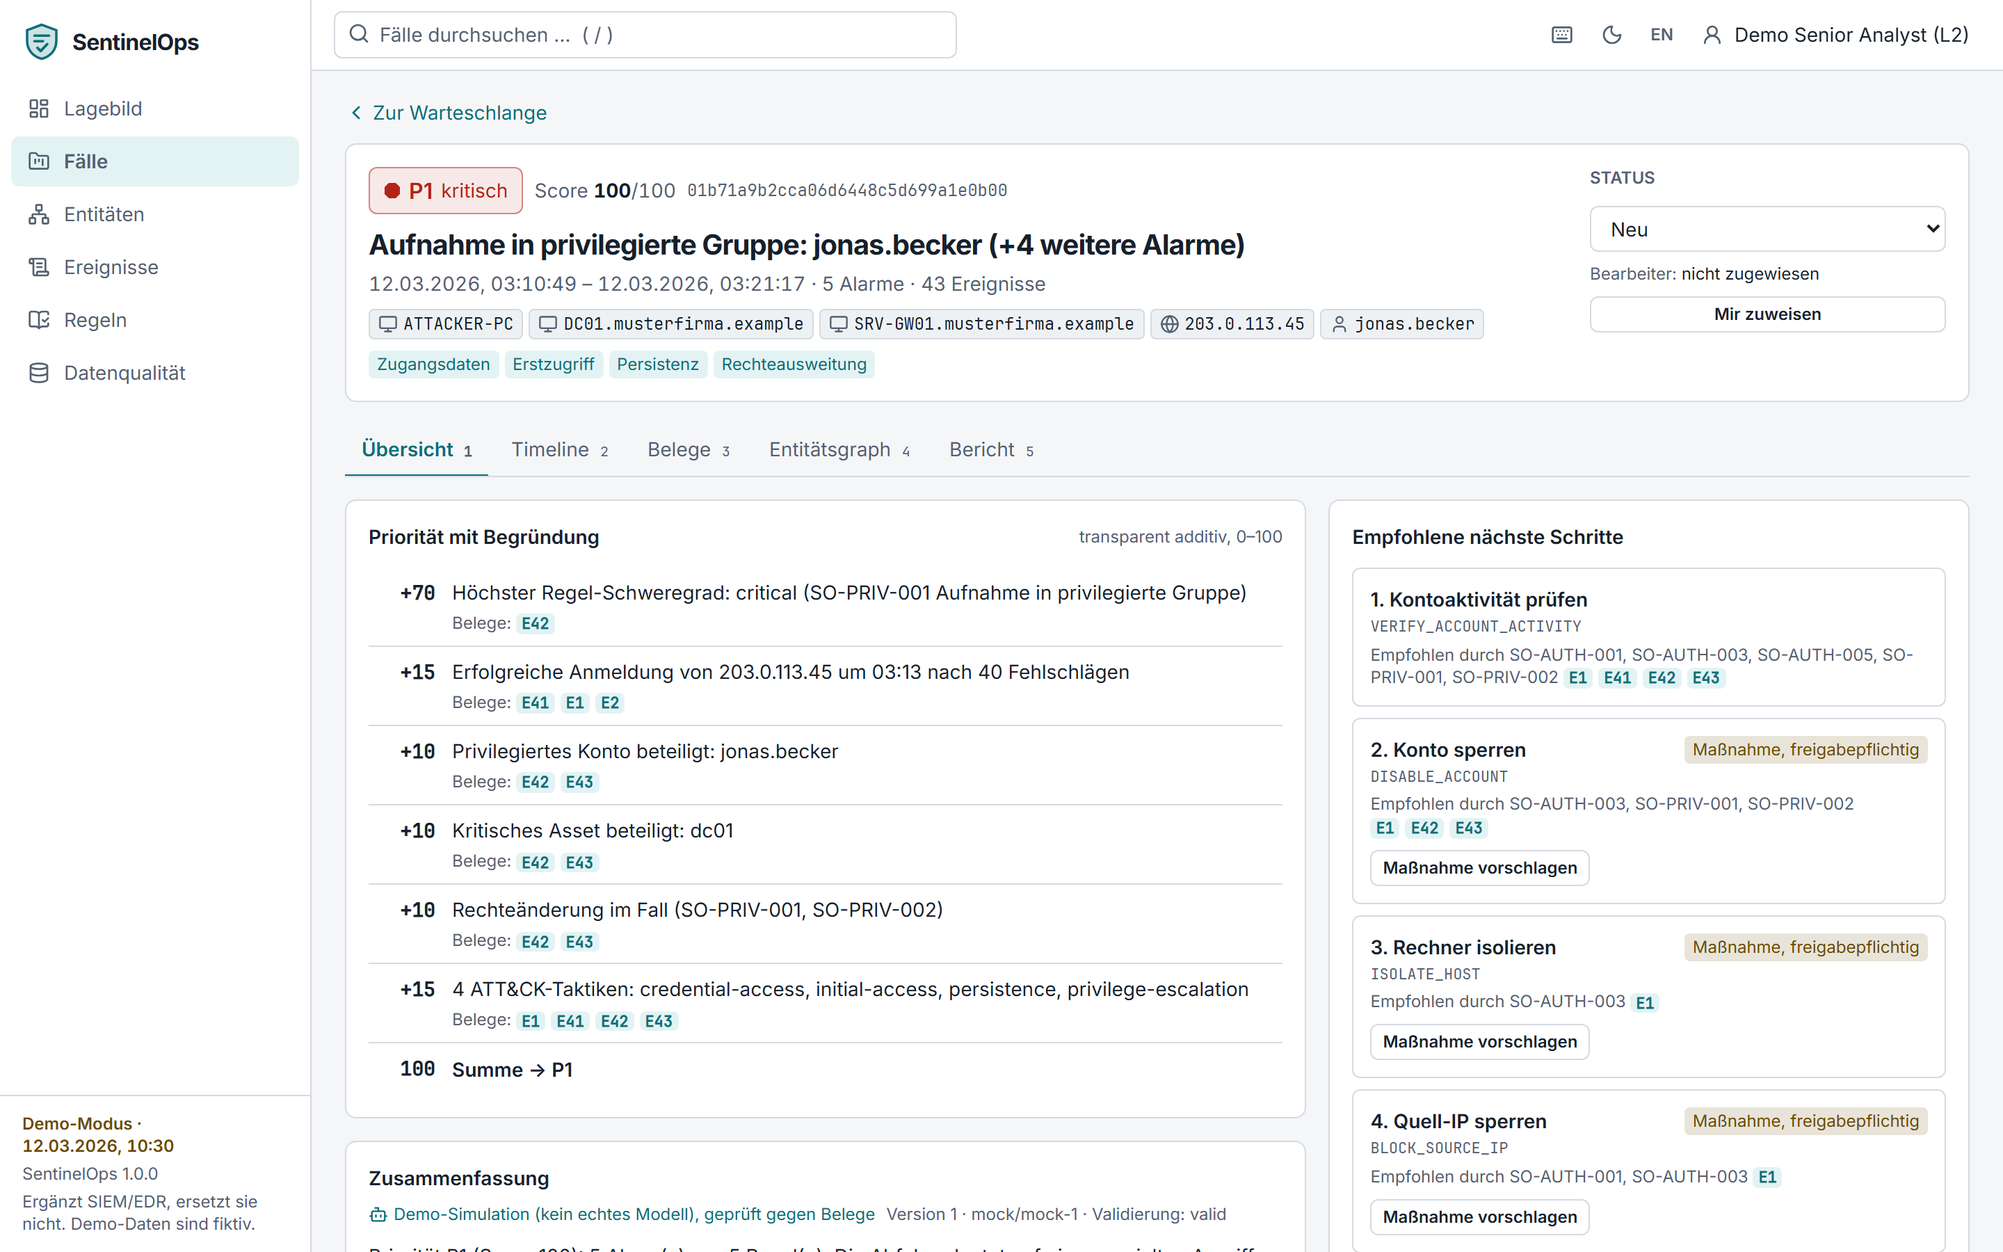
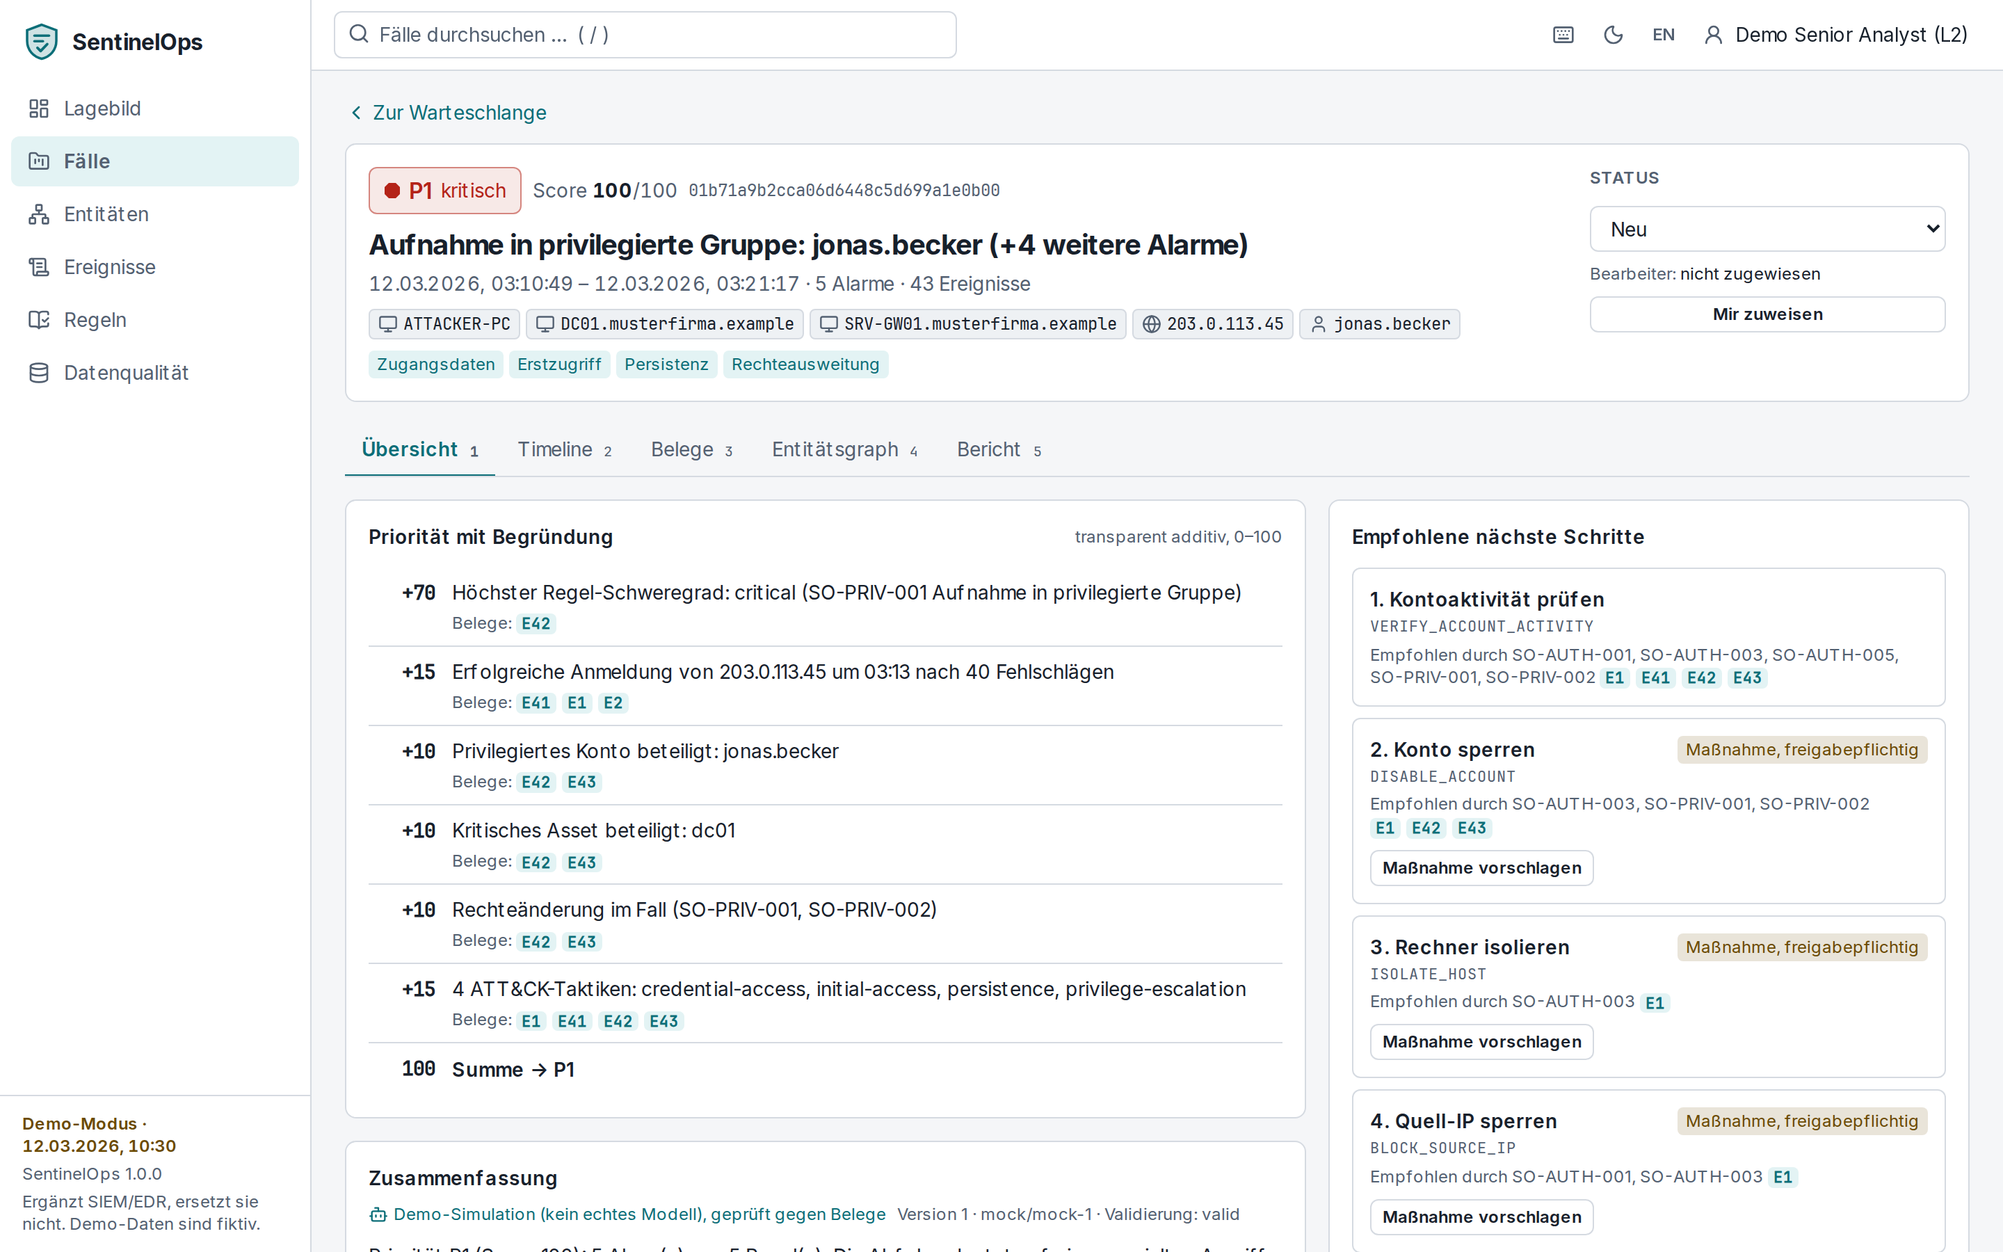
fix: first CI run on main (offline rule validation, Keycloak test, Trivy, E2E isolation) (#3)
* fix(detection): validate rules offline, no MITRE download at runtime

* test(auth): readable realm file and container logs in the Keycloak test

* ci(container): exclude installed third-party packages from the Trivy secret scan

* test(e2e): one demo instance per browser so acceptance tests do not share data

* test(normalize): cover the RecursionError branch independent of the platform

* docs(images): render screenshots on Linux, the CI reference platform

* perf(web): load chart and graph libraries only when they are shown

* perf(api): gzip and long-term caching for fingerprinted build assets

* feat(api): cross-origin isolation headers (COEP, CORP) with header tests

* ci(zap): ignore informational SPA and scanner-request warnings with reasons

* test(worker): wait for finished ingest runs before checking syslog counts

diff --git a/e2e/playwright.config.ts b/e2e/playwright.config.ts
@@ -2,48 +2,90 @@ import { defineConfig, devices } from "@playwright/test";
 
 // The application under test is a fresh demo instance (scripts/e2e_server.py):
 // fixed seed "dev", fixed demo clock, demo simulator for AI summaries.
-const port = process.env.E2E_PORT ?? "8001";
-const baseURL = process.env.E2E_BASE_URL ?? `http://127.0.0.1:${port}`;
+//
+// Every browser gets its OWN instance (database, port, dataset folder): the acceptance tests change
+// data (A7 proposes, approves and executes an action), so browsers sharing one database would see
+// each other's results. Ports: chromium 8001, firefox 8002, webkit 8003.
 const python = process.env.E2E_PYTHON ?? "uv run --directory backend python";
 const ci = Boolean(process.env.CI);
+const basePort = Number(process.env.E2E_PORT ?? "8001");
+
+const browsers = [
+  { name: "chromium", device: devices["Desktop Chrome"] },
+  ...(ci
+    ? [
+        { name: "firefox", device: devices["Desktop Firefox"] },
+        { name: "webkit", device: devices["Desktop Safari"] },
+      ]
+    : []),
+].map((browser, index) => ({ ...browser, port: basePort + index }));
+
+/** URL of an already running instance: E2E_BASE_URL_<BROWSER>, or E2E_BASE_URL for chromium. */
+function externalURL(name: string): string | undefined {
+  const own = process.env[`E2E_BASE_URL_${name.toUpperCase()}`];
+  if (own !== undefined && own !== "") return own;
+  const shared = process.env.E2E_BASE_URL;
+  return name === "chromium" && shared !== undefined && shared !== ""
+    ? shared
+    : undefined;
+}
+
+function baseURLFor(name: string, port: number): string {
+  return externalURL(name) ?? `http://127.0.0.1:${String(port)}`;
+}
+
+// Instances are started here unless every browser already has a running one (CI starts them itself).
+const external = browsers.every((b) => externalURL(b.name) !== undefined);
 
 export default defineConfig({
   testDir: ".",
   testMatch: /.*\.spec\.ts/,
   outputDir: "../.cache/e2e-results",
-  snapshotPathTemplate: "{testDir}/__screenshots__/{platform}/{projectName}/{arg}{ext}",
-  fullyParallel: false, // tests share one database; they are written to be order independent
+  snapshotPathTemplate:
+    "{testDir}/__screenshots__/{platform}/{projectName}/{arg}{ext}",
+  fullyParallel: false, // the tests of one browser share its database; they are written to be order independent
   workers: 1,
   retries: ci ? 1 : 0,
   timeout: 60_000,
-  expect: { timeout: 10_000, toHaveScreenshot: { maxDiffPixelRatio: 0.002, animations: "disabled" } },
-  reporter: ci ? [["github"], ["html", { open: "never", outputFolder: "../.cache/e2e-report" }]] : [["list"]],
+  expect: {
+    timeout: 10_000,
+    toHaveScreenshot: { maxDiffPixelRatio: 0.002, animations: "disabled" },
+  },
+  reporter: ci
+    ? [
+        ["github"],
+        ["html", { open: "never", outputFolder: "../.cache/e2e-report" }],
+      ]
+    : [["list"]],
   use: {
-    baseURL,
     locale: "de-DE",
     timezoneId: "Europe/Berlin",
     viewport: { width: 1440, height: 900 },
     trace: "retain-on-failure",
     colorScheme: "dark",
   },
-  projects: [
-    { name: "chromium", use: { ...devices["Desktop Chrome"], viewport: { width: 1440, height: 900 } } },
-    ...(ci
-      ? [
-          { name: "firefox", use: { ...devices["Desktop Firefox"], viewport: { width: 1440, height: 900 } } },
-          { name: "webkit", use: { ...devices["Desktop Safari"], viewport: { width: 1440, height: 900 } } },
-        ]
-      : []),
-  ],
-  webServer: process.env.E2E_BASE_URL
+  projects: browsers.map((b) => ({
+    name: b.name,
+    use: {
+      ...b.device,
+      viewport: { width: 1440, height: 900 },
+      baseURL: baseURLFor(b.name, b.port),
+    },
+  })),
+  webServer: external
     ? undefined
-    : {
+    : browsers.map((b) => ({
         command: `${python} ../scripts/e2e_server.py`,
         cwd: "..",
-        url: `${baseURL}/api/v1/health`,
+        url: `${baseURLFor(b.name, b.port)}/api/v1/health`,
+        env: {
+          E2E_PORT: String(b.port),
+          SENTINELOPS_E2E_DB: `sentinelops_e2e_${b.name}`,
+          E2E_DATASET: `.cache/e2e-dataset-${b.name}`,
+        },
         timeout: 600_000,
         reuseExistingServer: !ci,
-        stdout: "pipe",
-        stderr: "pipe",
-      },
+        stdout: "pipe" as const,
+        stderr: "pipe" as const,
+      })),
 });

diff --git a/frontend/src/components/LazyCanvas.tsx b/frontend/src/components/LazyCanvas.tsx
@@ -1,0 +1,35 @@
+import { lazy, Suspense, type ComponentProps } from "react";
+
+// ECharts (~500 kB) and Cytoscape (~420 kB) are only downloaded when a chart or graph is shown,
+// not with the login page or the case queue (Lighthouse performance budget, spec 15.6).
+// While loading, the placeholder keeps the final size so the layout does not shift.
+const TimeChartImpl = lazy(() => import("./Chart").then((m) => ({ default: m.TimeChart })));
+const EntityGraphImpl = lazy(() => import("./EntityGraph").then((m) => ({ default: m.EntityGraph })));
+
+function Placeholder({ label, height, className }: { label: string; height: number; className?: string }) {
+  return <div role="img" aria-label={label} aria-busy="true" className={className} style={{ height }} />;
+}
+
+export function TimeChart(props: ComponentProps<typeof TimeChartImpl>) {
+  return (
+    <Suspense fallback={<Placeholder label={props.label} height={props.height ?? 180} className="w-full" />}>
+      <TimeChartImpl {...props} />
+    </Suspense>
+  );
+}
+
+export function EntityGraph(props: ComponentProps<typeof EntityGraphImpl>) {
+  return (
+    <Suspense
+      fallback={
+        <Placeholder
+          label={props.label}
+          height={props.height ?? 520}
+          className="w-full rounded-lg border border-border bg-code"
+        />
+      }
+    >
+      <EntityGraphImpl {...props} />
+    </Suspense>
+  );
+}

diff --git a/frontend/src/test/case.test.tsx b/frontend/src/test/case.test.tsx
@@ -218,7 +218,8 @@ describe("case graph and report", () => {
     mockApi();
     const { router } = renderApp(`/cases/${CASE}/graph`);
     expect(await screen.findByText("Knoten anklicken, um Details zu sehen.")).toBeInTheDocument();
-    await userEvent.click(screen.getByRole("button", { name: "select-node" }));
+    // the graph component is loaded lazily (components/LazyCanvas.tsx)
+    await userEvent.click(await screen.findByRole("button", { name: "select-node" }));
     expect(screen.getByText(/40 Ereignisse/)).toBeInTheDocument();
     expect(screen.getByText("Verbindungen (Ereignisse)")).toBeInTheDocument();
     await userEvent.click(screen.getByRole("button", { name: "Fälle mit dieser Entität" }));

diff --git a/e2e/visual.spec.ts b/e2e/visual.spec.ts
@@ -31,6 +31,8 @@ for (const theme of ["dark", "light"] as const) {
     test("overview and queue", async ({ page }) => {
       await login(page, "analyst");
       await page.waitForLoadState("networkidle");
+      // the chart is loaded lazily; its placeholder carries aria-busy until then
+      await expect(page.locator('[aria-busy="true"]')).toHaveCount(0);
       await expect(page).toHaveScreenshot(`dashboard-${theme}.png`, { fullPage: true });
       await page.getByRole("link", { name: "Fälle" }).first().click();
       await page.waitForLoadState("networkidle");

diff --git a/frontend/src/pages/DashboardPage.tsx b/frontend/src/pages/DashboardPage.tsx
@@ -5,7 +5,8 @@ import { useTranslation } from "react-i18next";
 import { useDashboard } from "../api/hooks";
 import type { Dashboard, Priority } from "../api/types";
 import { EntityIcon } from "../components/Badges";
-import { TimeChart, type ChartSeries } from "../components/Chart";
+import type { ChartSeries } from "../components/Chart";
+import { TimeChart } from "../components/LazyCanvas";
 import { Kpi, PageHeader, Section } from "../components/Layout";
 import { PriorityBadge } from "../components/Priority";
 import { QueryView } from "../components/States";

diff --git a/scripts/screenshots.ts b/scripts/screenshots.ts
@@ -78,6 +78,8 @@ async function login(page: Page, user: DemoUser): Promise<void> {
 
 async function settle(page: Page): Promise<void> {
   await page.waitForLoadState("networkidle");
+  // lazily loaded charts/graphs show an aria-busy placeholder until their chunk is ready
+  await page.locator('[aria-busy="true"]').first().waitFor({ state: "detached" });
   await page.evaluate(() => document.fonts.ready);
   await page.mouse.move(0, 0);
   await page.waitForTimeout(300);

diff --git a/frontend/src/pages/case/GraphTab.tsx b/frontend/src/pages/case/GraphTab.tsx
@@ -5,7 +5,7 @@ import { useTranslation } from "react-i18next";
 import { useGraph } from "../../api/hooks";
 import type { GraphData } from "../../api/types";
 import { EntityIcon } from "../../components/Badges";
-import { EntityGraph } from "../../components/EntityGraph";
+import { EntityGraph } from "../../components/LazyCanvas";
 import { Section } from "../../components/Layout";
 import { QueryView } from "../../components/States";
 

diff --git a/backend/tests/integration/test_api_errors.py b/backend/tests/integration/test_api_errors.py
@@ -183,7 +183,7 @@ async def test_spa_and_static_serving(demo_db: str, tmp_path: object, monkeypatc
     (static / "fonts").mkdir()
     (static / "index.html").write_text("<!doctype html><title>SentinelOps</title>", encoding="utf-8")
     (static / "favicon.svg").write_text("<svg/>", encoding="utf-8")
-    (static / "assets" / "app.js").write_text("console.log(1)", encoding="utf-8")
+    (static / "assets" / "app.js").write_text("console.log(1);\n" * 200, encoding="utf-8")
     base = settings_for(demo_db)
     from dataclasses import replace
 
@@ -191,9 +191,29 @@ async def test_spa_and_static_serving(demo_db: str, tmp_path: object, monkeypatc
     monkeypatch.setenv("SENTINELOPS_INPROCESS_WORKER", "true")
     app = create_app(rt)
     async with httpx.AsyncClient(transport=httpx.ASGITransport(app=app), base_url="http://t") as c:
-        assert "SentinelOps" in (await c.get("/cases/abc")).text
+        page = await c.get("/cases/abc")
+        assert "SentinelOps" in page.text
+        for header, value in {
+            "x-content-type-options": "nosniff",
+            "x-frame-options": "DENY",
+            "referrer-policy": "no-referrer",
+            "cross-origin-opener-policy": "same-origin",
+            "cross-origin-embedder-policy": "require-corp",
+            "cross-origin-resource-policy": "same-origin",
+        }.items():
+            assert page.headers[header] == value, header
+        assert "default-src 'self'" in page.headers["content-security-policy"]
         assert (await c.get("/favicon.svg")).text == "<svg/>"
-        assert (await c.get("/assets/app.js")).status_code == 200
+        asset = await c.get("/assets/app.js", headers={"Accept-Encoding": "gzip"})
+        assert asset.status_code == 200
+        assert asset.headers["content-encoding"] == "gzip"
+        assert asset.headers["cache-control"] == "public, max-age=31536000, immutable"
+        assert asset.text.startswith("console.log(1);")
+        # API responses are never compressed (tokens next to user input) and never cached
+        api = await c.get("/api/openapi.json", headers={"Accept-Encoding": "gzip"})
+        assert len(api.content) > 10_000  # large enough that gzip would apply
+        assert "content-encoding" not in api.headers
+        assert api.headers["cache-control"] == "no-store"
         assert (await c.get("/api/unknown")).status_code == 404
         assert "SentinelOps" in (await c.get("/../../etc/passwd")).text
     async with app.router.lifespan_context(app):

diff --git a/backend/src/sentinelops/api/app.py b/backend/src/sentinelops/api/app.py
@@ -14,7 +14,10 @@ from fastapi.responses import FileResponse, JSONResponse
 from fastapi.routing import APIRoute
 from fastapi.staticfiles import StaticFiles
 from sqlalchemy.exc import DBAPIError
+from starlette.datastructures import MutableHeaders
+from starlette.middleware.gzip import GZipMiddleware
 from starlette.routing import BaseRoute
+from starlette.types import ASGIApp, Message, Receive, Scope, Send
 
 from sentinelops.api.routes import cases, core, data, operations
 from sentinelops.api.security import OriginCheckMiddleware, RateLimitMiddleware, SecurityHeadersMiddleware
@@ -116,6 +119,30 @@ def install_input_error_handler(app: FastAPI) -> None:
         return JSONResponse({"detail": "invalid characters in input"}, status_code=422)
 
 
+class ImmutableCache:
+    """Vite build assets carry a content hash in their name, so a name never changes its content."""
+
+    def __init__(self, app: ASGIApp) -> None:
+        self.app = app
+
+    async def __call__(self, scope: Scope, receive: Receive, send: Send) -> None:
+        async def send_with_cache(message: Message) -> None:
+            if message["type"] == "http.response.start" and message["status"] == 200:
+                MutableHeaders(scope=message)["Cache-Control"] = "public, max-age=31536000, immutable"
+            await send(message)
+
+        await self.app(scope, receive, send_with_cache)
+
+
+def static_assets(directory: Path) -> ASGIApp:
+    """Build assets: gzip-compressed and cached for a year.
+
+    Compression is applied here only, never to API responses: those can contain tokens next to
+    user-controlled input (compression side channels such as BREACH).
+    """
+    return GZipMiddleware(ImmutableCache(StaticFiles(directory=directory)), minimum_size=1024)
+
+
 def create_app(runtime: Runtime | None = None) -> FastAPI:
     rt = runtime or Runtime(Settings())
 
@@ -172,7 +199,7 @@ def create_app(runtime: Runtime | None = None) -> FastAPI:
         index = Path(static, "index.html")
         assets = Path(static, "assets")
         if assets.exists():
-            app.mount("/assets", StaticFiles(directory=assets), name="assets")
+            app.mount("/assets", static_assets(assets), name="assets")
         fonts = Path(static, "fonts")
         if fonts.exists():
             app.mount("/fonts", StaticFiles(directory=fonts), name="fonts")

diff --git a/backend/tests/unit/test_sigma_offline.py b/backend/tests/unit/test_sigma_offline.py
@@ -1,0 +1,31 @@
+"""Rule validation must work offline (read-only container, no internet).
+
+pySigma's ATT&CK and D3FEND tag validators download MITRE data on first use and cache it under
+``~/.cache``. In the hardened container that crashed ``sentinelops demo-load`` (read-only file system)
+and it would make the product depend on internet access. Both validators are therefore excluded.
+"""
+
+from __future__ import annotations
+
+import pytest
+from sigma.validators.core.tags import ATTACKTagValidator, D3FENDTagValidator
+
+from sentinelops.detection.config import DetectionConfig
+from sentinelops.detection.sigma_loader import VALIDATOR_EXCLUSIONS, load_ruleset
+from sentinelops.investigation.catalog import catalog_ids
+from sentinelops.settings import RULES_DIR
+
+
+def _no_download(self: object) -> set[str]:
+    raise AssertionError("rule validation tried to load MITRE data from the internet")
+
+
+def test_rule_validation_needs_no_mitre_download(monkeypatch: pytest.MonkeyPatch) -> None:
+    monkeypatch.setattr(ATTACKTagValidator, "_load_allowed_tags", _no_download)
+    monkeypatch.setattr(D3FENDTagValidator, "_load_allowed_tags", _no_download)
+    ruleset = load_ruleset(RULES_DIR, DetectionConfig(), catalog_ids())
+    assert ruleset.base_rules
+
+
+def test_network_validators_are_excluded() -> None:
+    assert {"attacktag", "d3_fendtag"} <= VALIDATOR_EXCLUSIONS

diff --git a/backend/tests/integration/test_keycloak.py b/backend/tests/integration/test_keycloak.py
@@ -62,7 +62,12 @@ def keycloak(tmp_path_factory: pytest.TempPathFactory) -> Iterator[str]:
         for credential in user["credentials"]:
             credential["temporary"] = False
     folder = tmp_path_factory.mktemp("realm")
-    (folder / "realm-sentinelops.json").write_text(json.dumps(realm), encoding="utf-8")
+    realm_file = folder / "realm-sentinelops.json"
+    realm_file.write_text(json.dumps(realm), encoding="utf-8")
+    # pytest creates temporary folders with mode 0700; Keycloak runs as a different user in the container
+    # and could not read the bind-mounted realm (first CI run: it exited, every request was refused).
+    folder.chmod(0o755)
+    realm_file.chmod(0o644)
     container = (
         DockerContainer(IMAGE)
         .with_command("start-dev --import-realm")
@@ -81,6 +86,10 @@ def keycloak(tmp_path_factory: pytest.TempPathFactory) -> Iterator[str]:
             except httpx.HTTPError:
                 pass
             time.sleep(1)
+        else:
+            stdout, stderr = container.get_logs()
+            logs = (stdout + stderr).decode("utf-8", "replace")[-4000:]
+            pytest.fail(f"Keycloak did not become ready within 180 s; container log tail:\n{logs}")
         yield issuer
 
 

diff --git a/backend/tests/integration/test_cli_worker.py b/backend/tests/integration/test_cli_worker.py
@@ -117,8 +117,12 @@ def test_worker_drop_folder_and_syslog(fresh_db: Database, tmp_path: Path) -> No
             channels: set[str] = set()
             for _ in range(300):
                 async with rt.engine.connect() as conn:
-                    channels = set((await conn.execute(select(ingest_runs.c.channel))).scalars())
-                if {"drop_folder", "syslog"} <= channels and not any((drop / ".processing").glob("*")):
+                    runs = (await conn.execute(select(ingest_runs.c.channel, ingest_runs.c.status))).all()
+                channels = {channel for channel, _ in runs}
+                # A run is visible as "running" (accepted = 0) before its counts are written; wait until both
+                # are finished (flaky on slow CI runners before).
+                finished = all(status != "running" for _, status in runs)
+                if {"drop_folder", "syslog"} <= channels and finished and not any((drop / ".processing").glob("*")):
                     break
                 await asyncio.sleep(0.1)
             assert {"drop_folder", "syslog"} <= channels
